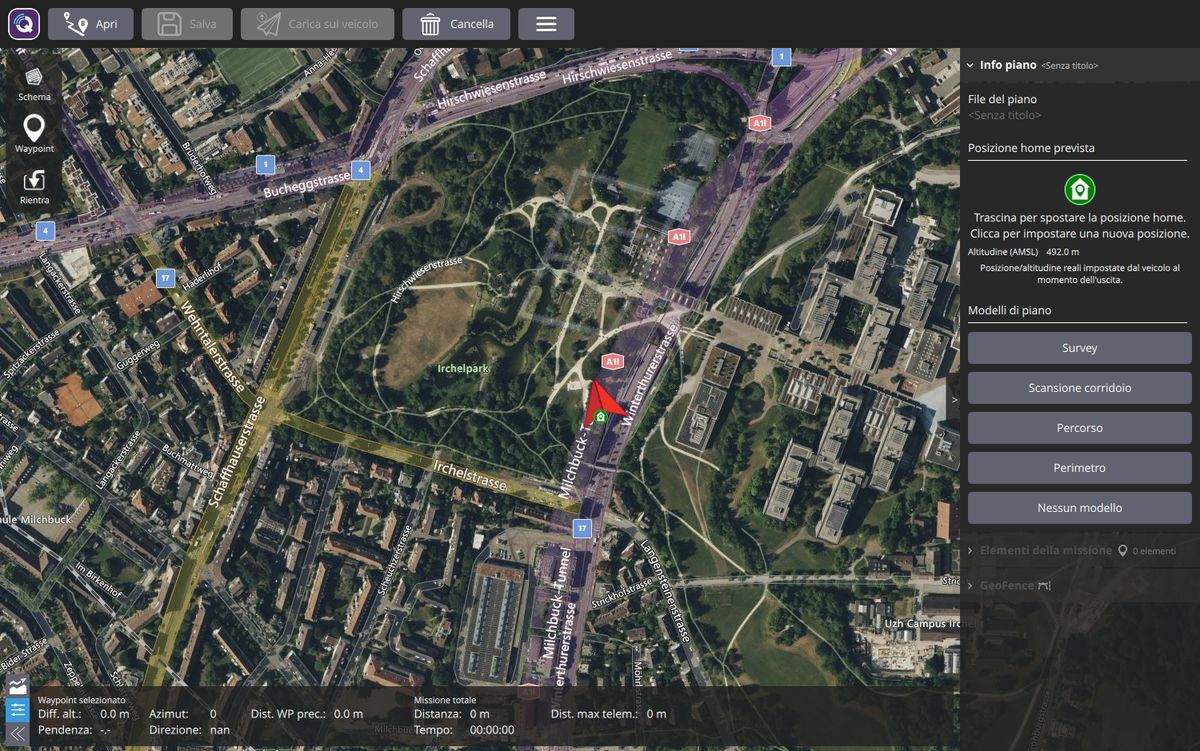
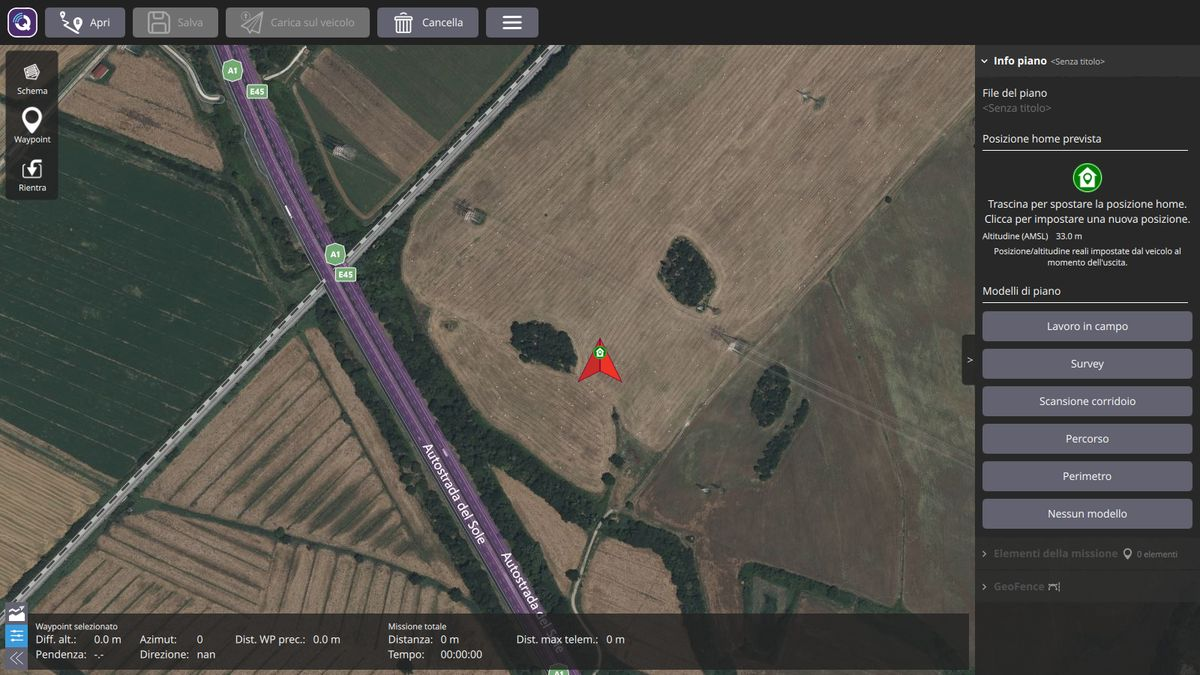
docs(medea): field work
Operator guide: how to prepare a field work (corners from the rover or the
map, environment, crop, job, speed, row direction, starting point, warnings),
Survey left to drones. Technician guide: how the path is built (rows,
headland, passes, U and bulb turns), what reaches the rover, crop presets to
be confirmed by CREA. New screenshots and changelog entry.

diff --git a/docs/medea/guida-tecnico.md b/docs/medea/guida-tecnico.md
@@ -205,22 +205,66 @@ non compaiono Decollo e Atterra, con un drone sì.
 
 | Modello | Cosa genera |
 | --- | --- |
+| **Lavoro in campo** | Un cambio di velocità (`MAV_CMD_DO_CHANGE_SPEED`), poi i waypoint delle passate lungo le file, con le voltate in capezzagna campionate ogni metro circa. |
 | **Percorso** | I punti della linea disegnata, in ordine; con *Andata e ritorno* anche il ritorno lungo la stessa linea; il tutto ripetuto *Ripetizioni* volte. |
 | **Perimetro** | Gli angoli dell'area, spostati verso l'interno della *Distanza dal bordo*, fino a richiudere il giro; il tutto ripetuto *Giri* volte. |
-| **Survey** | Passate parallele sull'area (pattern di upstream, ancora con le opzioni da drone). |
+| **Survey** | Passate parallele sull'area (pattern di upstream, pensato per i droni). |
 | **Nessun modello** | Piano vuoto, i waypoint si aggiungono a mano. |
 
-- Percorso e Perimetro generano solo waypoint (`MAV_CMD_NAV_WAYPOINT`); i modelli aggiungono alla fine
-  il ritorno alla partenza (RTL). L'altitudine dei punti è quella predefinita della missione e per il
-  rover non ha effetto.
-- Gli ultimi valori usati (distanza dal bordo, giri, ripetizioni...) diventano i valori proposti per il
-  lavoro successivo.
-- I piani si salvano in file `.plan` (JSON). Un file che contiene Percorso o Perimetro si apre solo con
-  questa versione di QGroundControl.
-- La velocità usata per stimare la durata della missione è 1 m/s (in modalità avanzata:
-  *Plan View → Predefiniti*).
+- I modelli aggiungono alla fine il ritorno alla partenza (RTL). L'altitudine dei punti è quella
+  predefinita della missione e per il rover non ha effetto.
+- Gli ultimi valori usati (coltura, interfila, distanza dal bordo, giri...) diventano i valori proposti
+  per il lavoro successivo.
+- I piani si salvano in file `.plan` (JSON). Un file che contiene Lavoro in campo, Percorso o Perimetro
+  si apre solo con questa versione di QGroundControl.
+- La velocità usata per stimare la durata della missione è 2,8 km/h (in modalità avanzata:
+  *Plan View → Predefiniti*). Il Lavoro in campo usa la propria velocità.
 - I valori mostrati in basso a destra nella Fly View si possono cambiare: tasto destro (o pressione
   prolungata) sulla griglia, poi il lucchetto per chiudere.
+
+### Lavoro in campo: come si costruisce il percorso
+
+- **Campo:** il poligono degli angoli (di solito quattro). Gli angoli si possono prendere dalla posizione
+  del rover (*Angolo dal rover*), più precisa della mappa satellitare.
+- **File:** parallele al *lato di riferimento* (giallo sulla mappa; *Cambia direzione delle file* passa
+  al lato successivo). La prima fila è a *Prima fila dal bordo* da quel lato, le altre ogni *Interfila*.
+- **Capezzagna:** una fascia larga *Capezzagna* lungo ogni lato del campo che le file incontrano (i lati
+  paralleli alle file, entro 2°, non ne hanno). Le file finiscono dove comincia la fascia, anche sui lati
+  obliqui.
+- **Passate:** a ogni passata il rover scavalca *File per passata* file, con la linea centrale in mezzo
+  a esse; la *Carreggiata necessaria* è file per passata × interfila. Le passate si alternano di verso.
+- **Voltate:** tra una passata e la successiva, in capezzagna, con il *Raggio di sterzata* minimo:
+  - **a U** (quarto di cerchio, tratto dritto, quarto di cerchio) se le passate distano almeno due
+    raggi: occupa un raggio di capezzagna;
+  - **a goccia** se sono più vicine: una breve curva verso l'esterno, un ampio giro, una breve curva
+    verso la passata successiva. Occupa più capezzagna (circa 4,3 m con raggio 2 m e passate a 2,5 m).
+
+  Se una voltata esce dal campo il lavoro non si può salvare né caricare, e l'editor dice di quanta
+  capezzagna c'è bisogno.
+- **Avvisi che bloccano il lavoro:** fascia coltivata larga quanto l'interfila (nessuno spazio per le
+  ruote), nessuna fila nel campo, capezzagna troppo larga, voltate fuori dal campo, lato di riferimento
+  più corto di 1 m.
+- **Al rover:** arrivano la velocità (`MAV_CMD_DO_CHANGE_SPEED`) e i waypoint. Ambiente, coltura e tipo
+  di lavoro per ora restano nel file `.plan`: come passarli al rover dipende dall'interfaccia ROS ancora
+  da concordare. La direzione in ogni punto (richiesta dalla logica di Giorgio) la ricava il bridge dalla
+  sequenza dei punti.
+- **Fly View:** con più di 30 punti si vedono solo la partenza e il punto verso cui va il rover; il
+  percorso resta disegnato come linea.
+
+Valori predefiniti delle colture, **indicativi e da confermare con il CREA** (domanda 25 in
+`docs/domande-aperte.md` di `medea_hmi`); il tecnico li cambia in *Coltura e rover* (modalità avanzata):
+
+| Coltura | Interfila | Fascia coltivata | Capezzagna | Note |
+| --- | --- | --- | --- | --- |
+| Vigneto | 2,5 m | 0,6 m | 6 m | |
+| Frutteto | 4,5 m | 1,5 m | 7 m | |
+| Orticole in pieno campo | 1,5 m | 0,4 m | 5 m | |
+| Mais | 0,75 m | 0,25 m | 6 m | |
+| Orticole in serra | 1,2 m | 0,4 m | 3 m | imposta anche *Serra* |
+| Personalizzata | — | — | — | restano i valori del tecnico |
+
+La prima fila è sempre a metà interfila dal lato di riferimento. Raggio di sterzata (2 m) e file per
+passata (1) non dipendono dalla coltura: sono dati del rover.
 
 ## Preconfigurare una postazione
 

diff --git a/docs/medea/guida-operatore.md b/docs/medea/guida-operatore.md
@@ -91,18 +91,52 @@ Sotto *Modelli di piano* scegli:
 
 | Tipo di lavoro | Quando usarlo |
 | --- | --- |
+| **Lavoro in campo** | Il rover lavora lungo le file di una coltura, con le voltate in capezzagna. È il lavoro di tutti i giorni. |
 | **Percorso** | Il rover segue una strada, un filare o una linea che disegni tu. |
 | **Perimetro** | Il rover gira lungo il bordo di un campo o di un'area. |
-| **Survey** | Il rover copre tutta un'area con passate parallele (in futuro si chiamerà diversamente). |
+| **Survey** | Copertura di un'area con passate parallele, pensata per i droni: per il rover usa *Lavoro in campo*. |
 | **Nessun modello** | Piano vuoto: aggiungi tu i punti da raggiungere, uno per uno. |
 
 *Scansione corridoio* è pensata per i droni: per ora non serve per il rover.
 
-Percorso, Perimetro e Survey aggiungono alla fine **Ritorno alla partenza**: finito il lavoro, il
+Lavoro in campo, Percorso, Perimetro e Survey aggiungono alla fine **Ritorno alla partenza**: finito il lavoro, il
 rover torna al punto di partenza. Con *Nessun modello* lo aggiungi tu con il pulsante **Rientra**
 della barra a sinistra.
 
-### 3a. Percorso
+### 3a. Lavoro in campo
+
+![Un lavoro in campo su un frutteto](img/operatore-campo.jpg)
+
+1. Scegli **Lavoro in campo**. In alto compaiono gli *Strumenti poligono*.
+2. Indica il campo, in uno di questi modi:
+   - **dal rover** (il più preciso): porta il rover in un angolo del campo e premi **Angolo dal rover**,
+     poi nell'angolo successivo e così via, girando intorno al campo. Con tre angoli il campo compare
+     sulla mappa. **Ricomincia il campo** cancella gli angoli;
+   - **sulla mappa**: **Base** crea un rettangolo da trascinare sui confini, **Traccia** permette di
+     toccare gli angoli uno dopo l'altro (poi **Fine tracciamento**), **Carica KML/SHP...** carica un
+     confine preparato con un altro programma. La mappa satellitare può essere spostata di qualche metro:
+     controlla che le file cadano davvero sulle piante.
+3. Nel pannello a destra scegli:
+   - **Ambiente**: *Campo aperto* o *Serra*;
+   - **Coltura**: vigneto, frutteto, orticole in pieno campo, mais, orticole in serra. La coltura imposta
+     la distanza tra le file e lo spazio per girare a fine fila;
+   - **Tipo di lavoro**: mappatura, rilevamento infestanti, diserbo, mappatura NDVI o NDRE, irrorazione;
+   - **Velocità** in km/h (2,8 di solito, al massimo 3).
+4. Sulla mappa le **file** sono le linee verdi, il **lato giallo** del campo è quello a cui sono parallele.
+   Se le file vanno nell'altro verso premi **Cambia direzione delle file**. **Cambia punto di partenza**
+   sposta l'angolo da cui il rover comincia.
+5. Sotto *Statistiche* trovi quante file ci sono, la lunghezza del percorso e il **tempo stimato**.
+
+Se compare un avviso rosso il lavoro non si può caricare sul rover. I casi più comuni:
+
+- *Le voltate a fine fila escono dal campo*: lo spazio a fine fila non basta per girare. Chiedi al tecnico
+  di controllare la capezzagna o il raggio di sterzata;
+- *Nel campo non entra nessuna fila*: il campo è troppo piccolo o le file vanno nella direzione sbagliata
+  (prova **Cambia direzione delle file**);
+- *La capezzagna è troppo larga per questo campo*: il campo è troppo stretto rispetto allo spazio a fine
+  fila.
+
+### 3b. Percorso
 
 ![Un percorso con andata e ritorno](img/operatore-percorso.jpg)
 
@@ -121,7 +155,7 @@ della barra a sinistra.
 
    Sotto *Statistiche* trovi la lunghezza del percorso e la distanza totale da percorrere.
 
-### 3b. Perimetro
+### 3c. Perimetro
 
 ![Un perimetro con distanza dal bordo di 20 m](img/operatore-perimetro.jpg)
 
@@ -140,17 +174,16 @@ della barra a sinistra.
 Se la distanza dal bordo è troppo grande per l'area compare un avviso: riducila, altrimenti il lavoro
 non si può salvare né caricare sul rover.
 
-### 3c. Punti a mano (waypoint)
+### 3d. Punti a mano (waypoint)
 
 1. Scegli **Nessun modello**.
 2. Premi **Waypoint** nella barra a sinistra e tocca sulla mappa i punti da raggiungere, in ordine.
    Ogni tocco aggiunge un punto numerato. Premi di nuovo **Waypoint** per smettere di aggiungere punti.
 
-### 3d. Survey (copertura di un'area)
+### Survey
 
-Disegna l'area come per il perimetro. Il rover la percorre con passate parallele: **Passo** è la
-distanza tra una passata e l'altra, **Angolo** è la direzione delle passate. Questa schermata ha
-ancora molte opzioni da drone e verrà semplificata.
+È il modello per coprire un'area con un drone. Per il rover usa **Lavoro in campo**, che conosce le
+file della coltura e le voltate.
 
 ### 4. Salva il lavoro (facoltativo)
 

diff --git a/docs/medea/CHANGELOG.md b/docs/medea/CHANGELOG.md
@@ -24,6 +24,43 @@ Guide d'uso: [guida per l'operatore](guida-operatore.md), [guida per il tecnico]
 
 ## 2026-10-26
 
+### Lavoro in campo nella Pianificazione
+
+**Cosa.**
+
+- Nuovo modello di piano e pattern **Lavoro in campo** (`FieldWorkComplexItem`, primo tra i modelli per
+  i rover): il rover lavora lungo le file di una coltura, con le voltate in capezzagna.
+  - **Campo** disegnato sulla mappa o preso dal rover: *Angolo dal rover* aggiunge come angolo la
+    posizione attuale del rover (RTK, più precisa della mappa satellitare), *Ricomincia il campo*.
+  - **Operatore:** ambiente (campo aperto / serra), coltura (vigneto, frutteto, orticole in pieno campo,
+    mais, orticole in serra, personalizzata), tipo di lavoro (mappatura, rilevamento infestanti,
+    diserbo, NDVI, NDRE, irrorazione), velocità in km/h (2,8 di serie, massimo 3), direzione delle file
+    (parallele al lato evidenziato in giallo), punto di partenza.
+  - **Tecnico** (modalità avanzata, *Coltura e rover*): interfila, larghezza della fascia coltivata, file
+    per passata, prima fila dal bordo, capezzagna, raggio di sterzata. La coltura propone i primi quattro
+    (valori indicativi da confermare con il CREA).
+  - **Percorso:** passate alternate al centro delle file scavalcate; capezzagna come fascia lungo ogni
+    lato incontrato dalle file (anche obliquo); voltate a U se le passate distano almeno due raggi,
+    altrimenti a goccia, campionate circa ogni metro. Se una voltata esce dal campo, se la fascia
+    coltivata non lascia spazio alle ruote o se nel campo non entra nessuna fila, il lavoro non si può
+    salvare né caricare e l'editor spiega perché.
+  - **Statistiche:** file, passate, carreggiata necessaria, tipo di voltata, lunghezza, tempo stimato,
+    area. Sulla mappa le file in verde.
+  - Al rover arriva un `MAV_CMD_DO_CHANGE_SPEED` con la velocità di lavoro prima del primo waypoint;
+    ambiente, coltura e tipo di lavoro restano nel file `.plan`.
+- `TransectStyleComplexItem` (upstream): due metodi virtuali (`_entryMissionItemCount`,
+  `_appendEntryMissionItems`) per gli elementi di missione che un pattern mette prima del primo waypoint.
+- **Fly View:** con il rover e più di 30 punti si vedono solo la partenza e il punto in corso, non
+  centinaia di numeri.
+- **Test:** `FieldWorkComplexItemTest` (file e voltate a goccia e a U, velocità prima del primo punto,
+  capezzagna troppo stretta o troppo larga, fascia troppo larga, preset delle colture, lato obliquo,
+  direzione e partenza, salvataggio e caricamento).
+
+**Perché.** Dopo la chiamata con il CREA il percorso nel campo lo calcola la dashboard (sul rover non
+c'è un planner): l'operatore deve indicare il campo e la coltura, non i singoli punti. Il Survey di
+upstream non conosce file, capezzagna e raggio di sterzata, e le sue passate a zig-zag avrebbero fatto
+girare il rover sopra la coltura.
+
 ### Schermata Guida del rover: stati, FERMA, avanzamento e avvisi
 
 **Cosa.**
